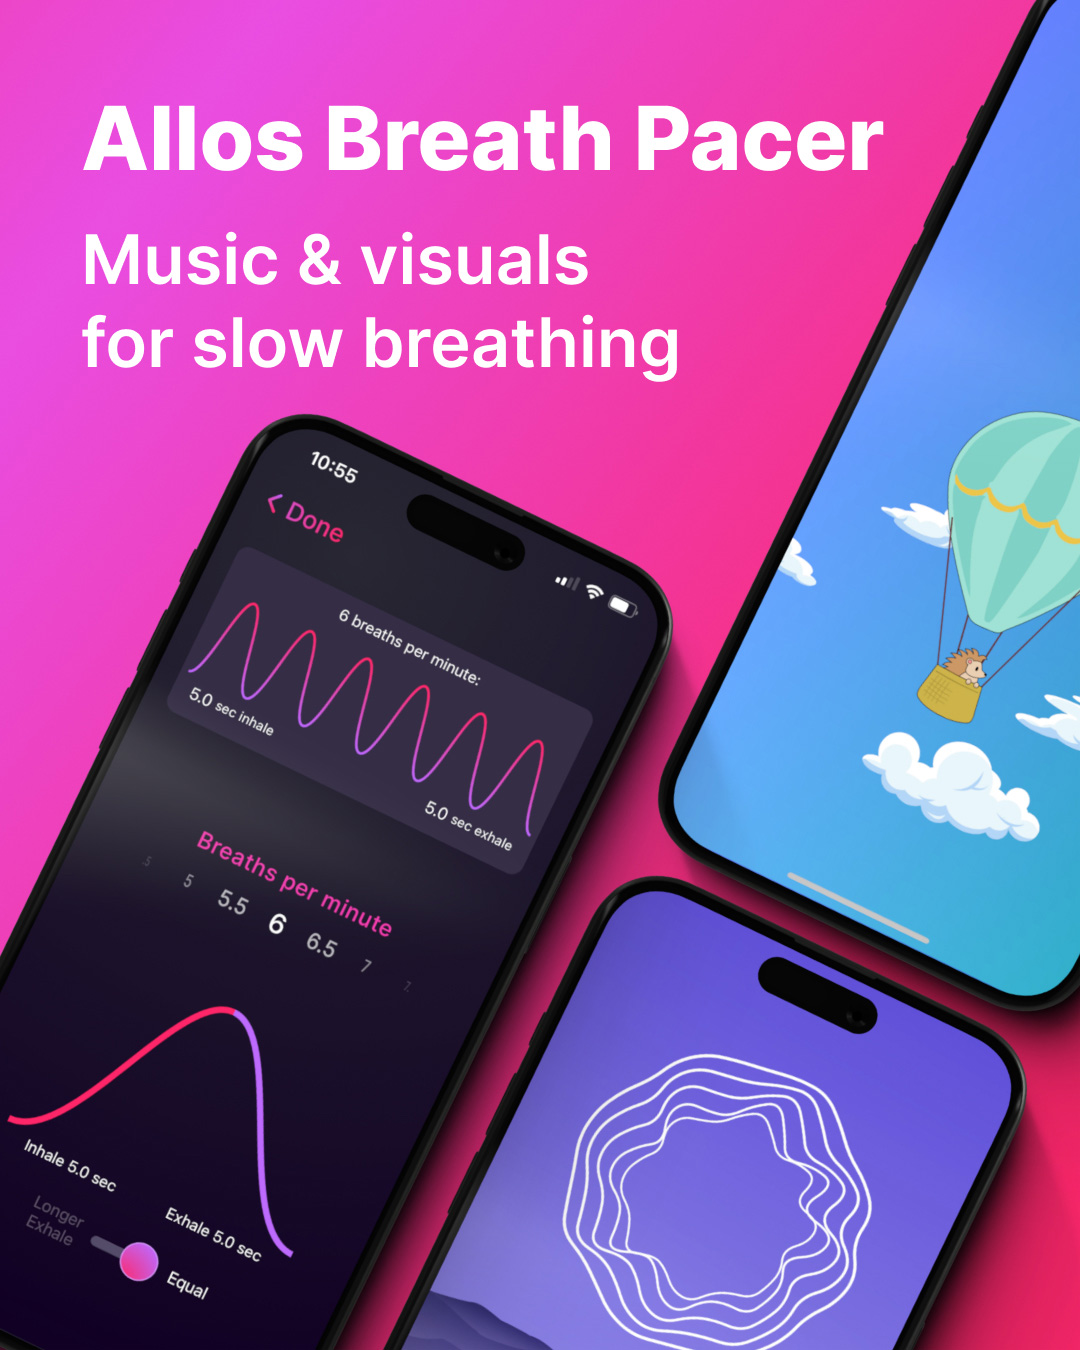
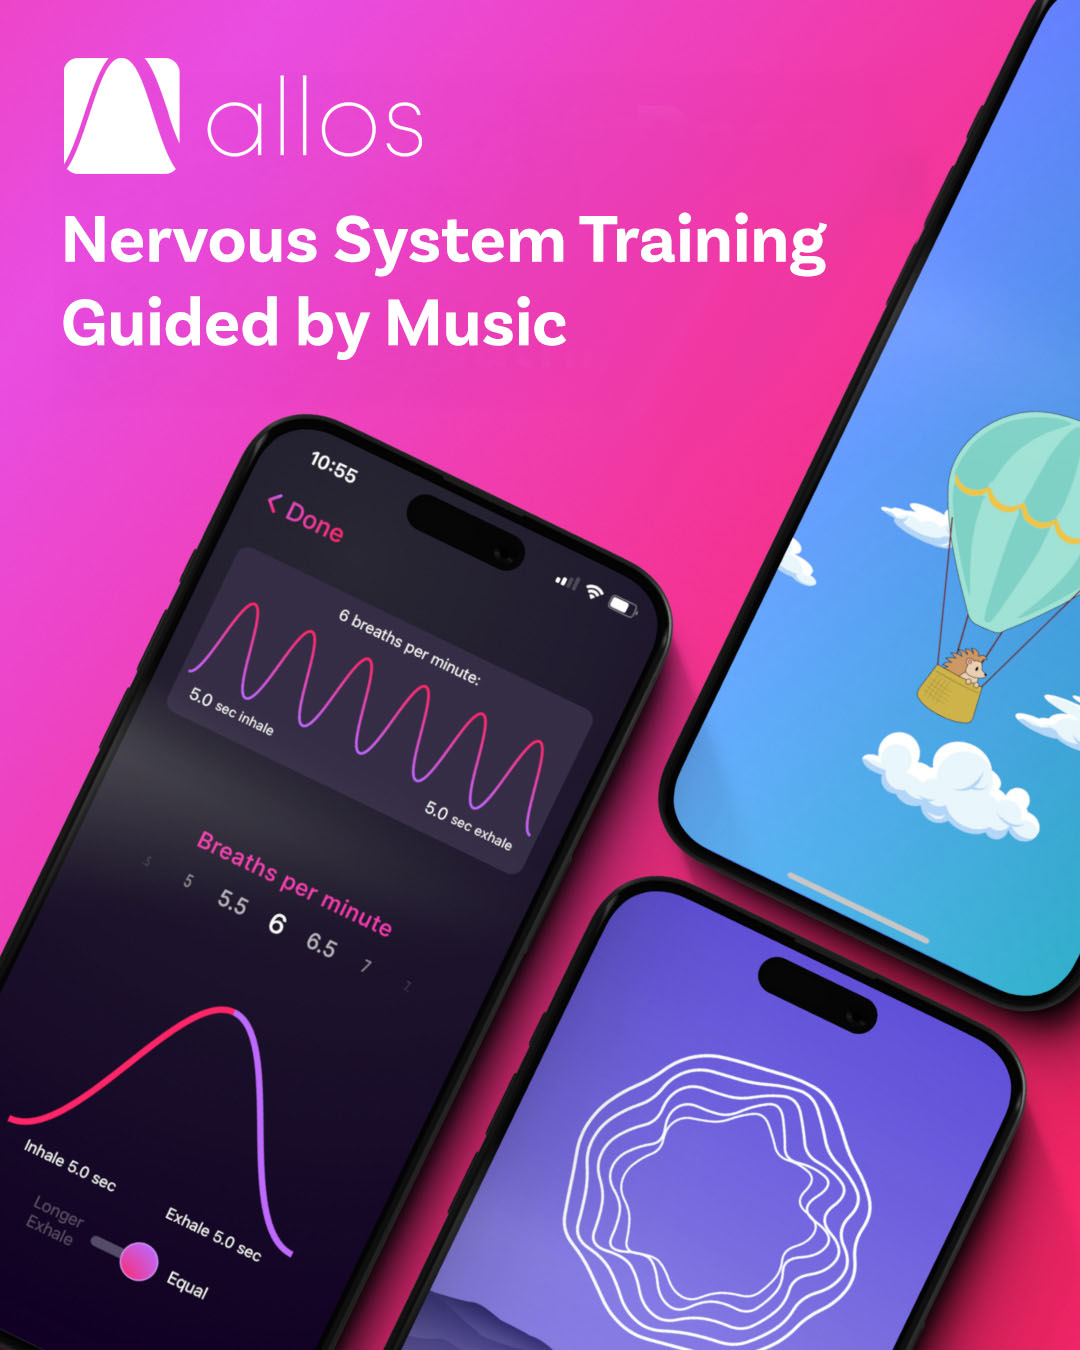
Remove "Breath Pacer" from Allos brand name in titles, descriptions, alt text, and footer; update social preview and download page images

Changed region(s): [[0.0611, 0.0311, 0.825, 0.28]]

diff --git a/src/download.html b/src/download.html
@@ -1,14 +1,14 @@
 ---
 layout: layouts/base.html
-title: Download Allos Breath Pacer
-description: Download the Allos Breath Pacer app on iOS and Android. Music and visuals to guide your resonance frequency breathing practice.
+title: Download Allos
+description: Download the Allos app on iOS and Android. Music and visuals to guide your resonance frequency breathing practice.
 social_image: social-preview.jpg
 ---
 
 <div class="download-page">
   <h1>Download Allos</h1>
-  <img class="download-preview" src="/assets/images/allos-preview.jpg" alt="Allos Breath Pacer - Music and visuals for slow paced breathing">
-  <img class="download-preview-small" src="/assets/images/allos-preview-sml.jpg" alt="Allos Breath Pacer - Music and visuals for slow paced breathing">
+  <img class="download-preview" src="/assets/images/allos-preview.jpg" alt="Allos - Music and visuals for slow paced breathing">
+  <img class="download-preview-small" src="/assets/images/allos-preview-sml.jpg" alt="Allos - Music and visuals for slow paced breathing">
   <div class="download-badges">
     <a href="https://apps.apple.com/app/id1599591962" target="_blank" rel="noopener noreferrer">
       <img src="/assets/images/download-allos-on-the-app-store.svg" alt="Download on the App Store">
@@ -18,5 +18,5 @@ social_image: social-preview.jpg
     </a>
   </div>
   <h2>About the App</h2>
-  <p><b>Allos</b> is a music-guided breath pacer for slow breathing practices like coherent breathing. The app offers a variety of music and animation that can be customized to guide breathing at your unique resonance frequency breathing rate. The app works alongside most HRV biofeedback apps.</p>
+  <p><b>Allos</b> is a music-guided breath pacer for slow breathing practices like coherent breathing. The app offers a variety of music and animation that can be customized to guide breathing at your unique resonance frequency breathing rate. Allos works alongside most HRV biofeedback apps.</p>
 </div>

diff --git a/src/index.html b/src/index.html
@@ -128,7 +128,7 @@ customHead: |
       <picture>
         <source media="(min-width: 1024px)" srcset="/assets/images/hero-image-home-desktop.avif" width="2560" height="1688">
         <source media="(min-width: 768px)" srcset="/assets/images/hero-image-home-tablet.avif" width="2127" height="1579">
-        <img src="/assets/images/hero-image-home-mobile.avif" alt="Allos Breath Pacer"
+        <img src="/assets/images/hero-image-home-mobile.avif" alt="Allos"
           width="1080" height="1211"
           fetchpriority="high"
           loading="eager"

diff --git a/src/_includes/footer.html b/src/_includes/footer.html
@@ -1,10 +1,5 @@
 <footer class="footer">
   <div class="footer-container">
-    <!-- Footer brand statement -->
-    <div class="footer-brand">
-      <p class="footer-brand-text">Allos is a music-guided breath pacer for resonance frequency breathing that supports calm, focus, and resilience.</p>
-    </div>
-
     <div class="resources-container">
       <!-- Column 1: Learn -->
       <div class="footer-section footer-learn">
